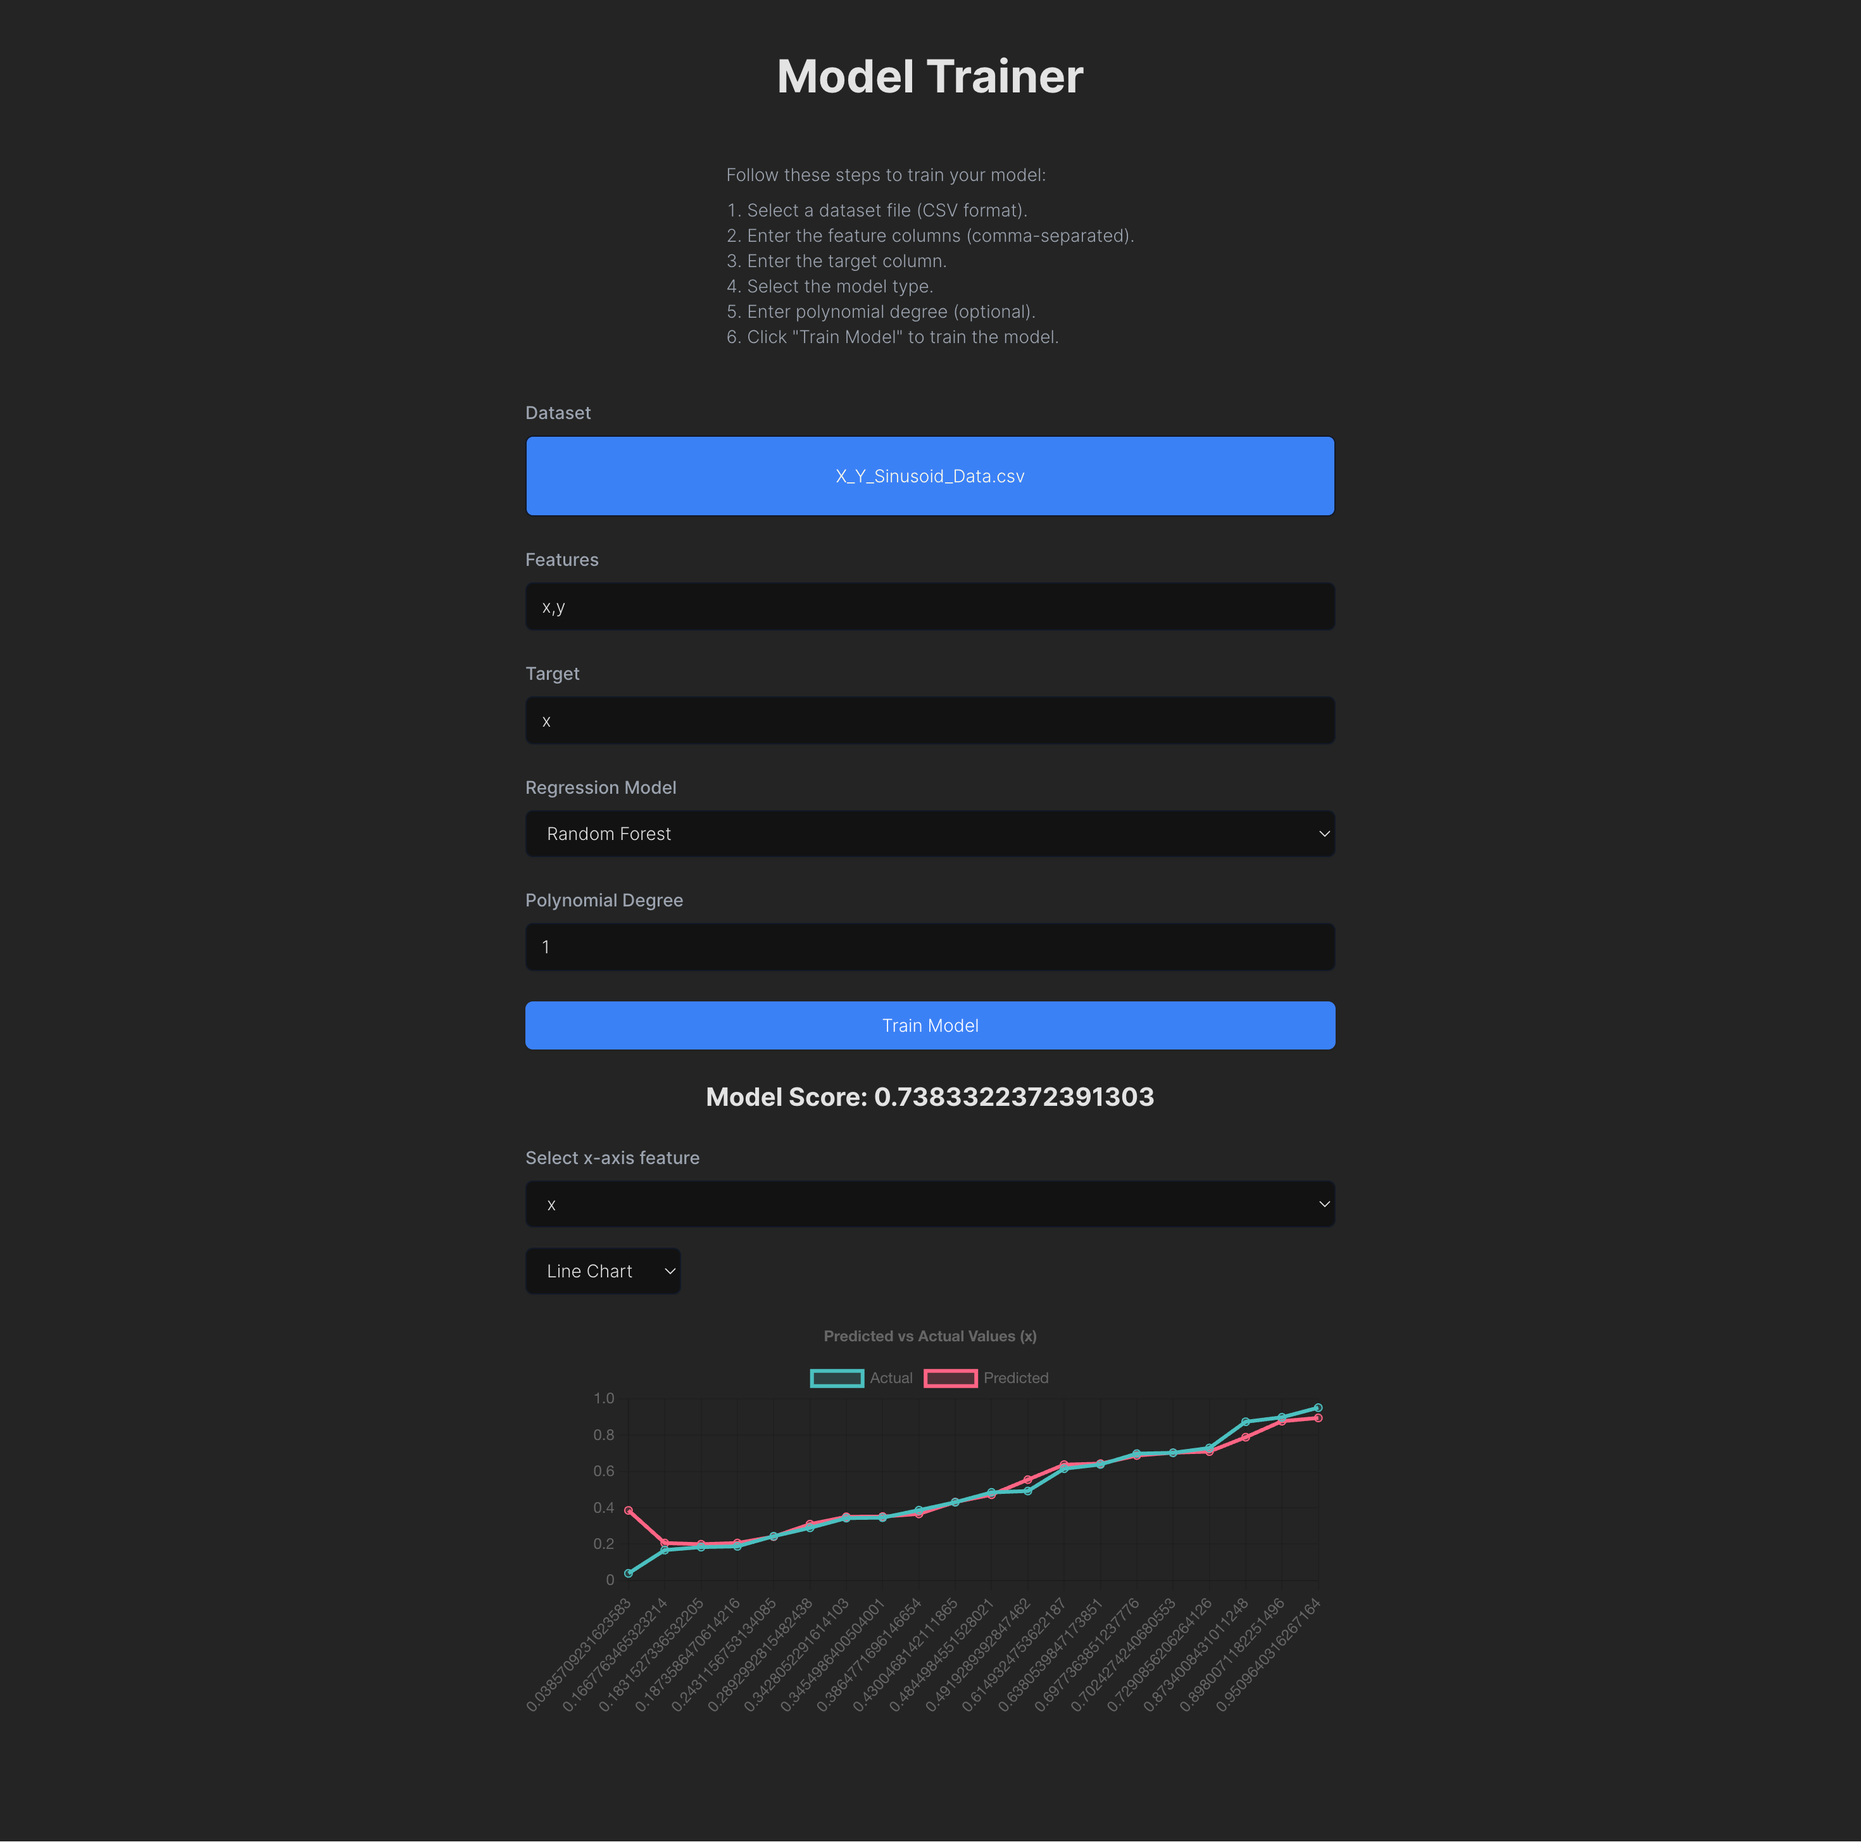
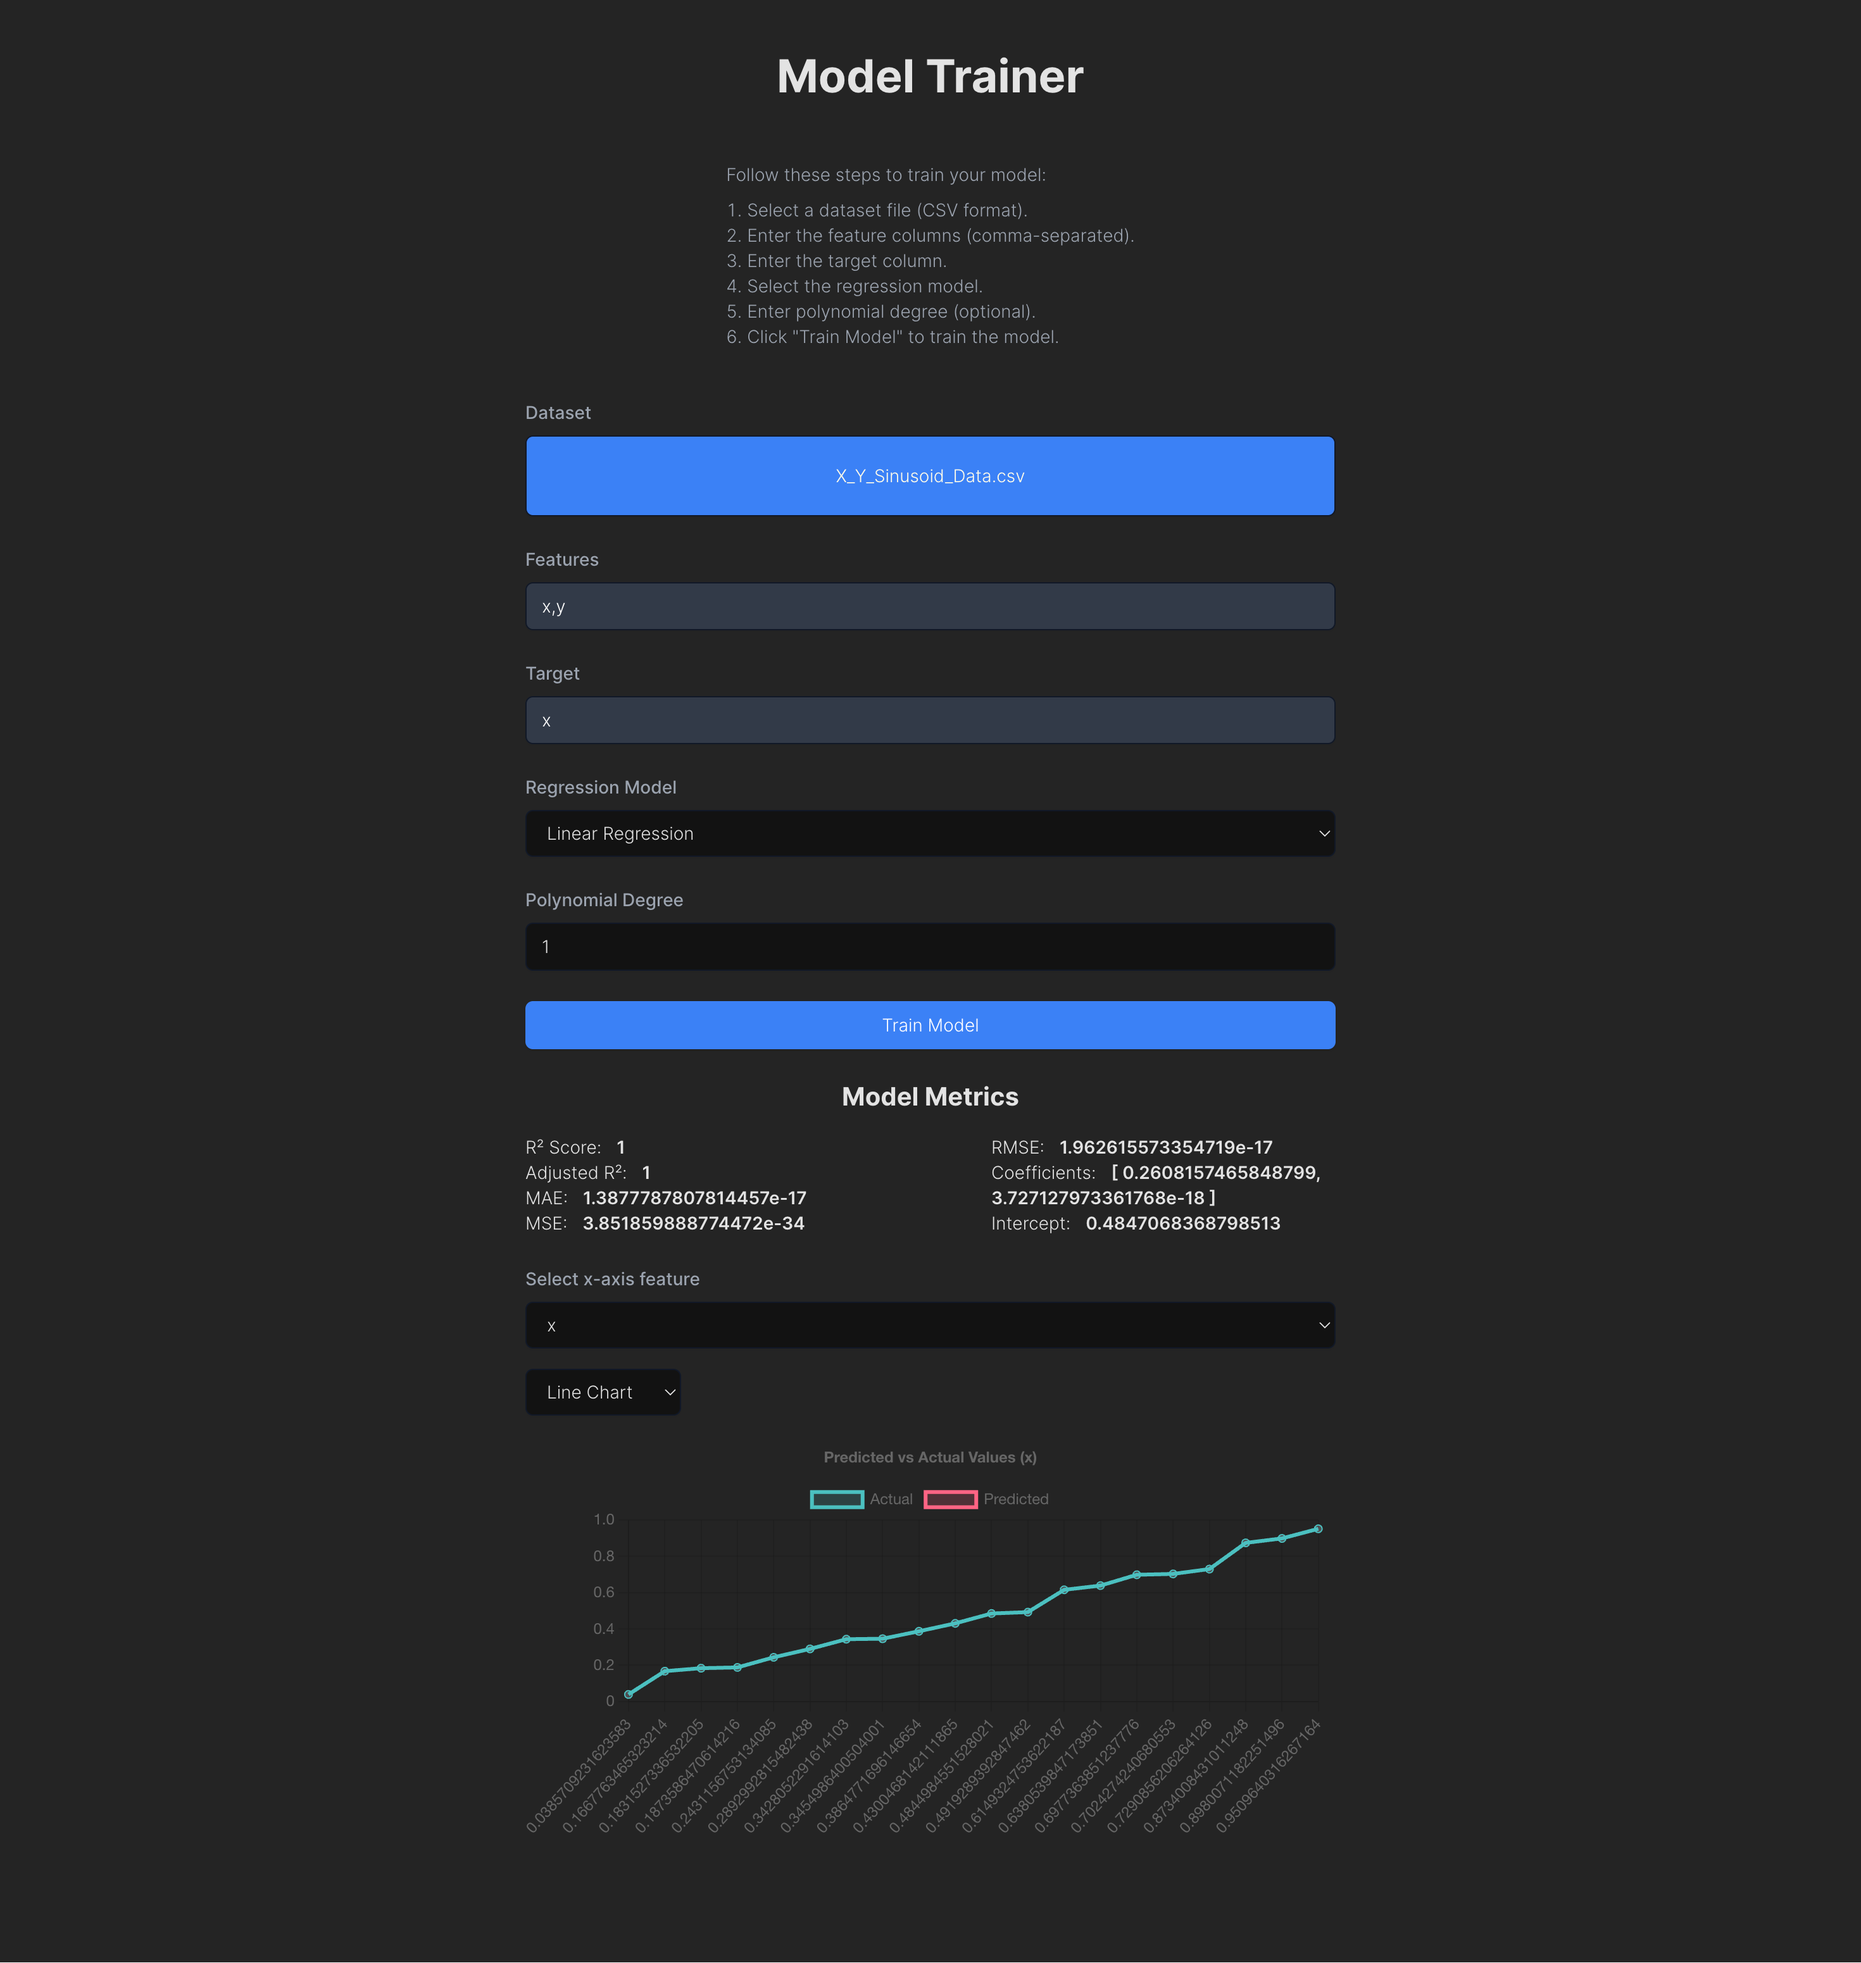
Flexible regression

diff --git a/client/src/views/Home.vue b/client/src/views/Home.vue
@@ -9,7 +9,7 @@
             <li>Select a dataset file (CSV format).</li>
             <li>Enter the feature columns (comma-separated).</li>
             <li>Enter the target column.</li>
-            <li>Select the model type.</li>
+            <li>Select the regression model.</li>
             <li>Enter polynomial degree (optional).</li>
             <li>Click "Train Model" to train the model.</li>
           </ol>
@@ -74,13 +74,26 @@
       </button>
     </form>
     <div v-if="error" class="mt-4 text-red-600 text-center">{{ error }}</div>
-    <div v-if="score !== null" class="mt-6 text-center">
-      <h2 class="text-xl font-bold">Model Score: {{ score }}</h2>
+    <div v-if="score !== null" class="mt-6">
+      <h2 class="text-xl font-bold text-center mb-4">Model Metrics</h2>
+      <div class="flex flex-col sm:flex-row items-start justify-center text-sm">
+        <div class="w-1/2 mr-24">
+          <p class=""><span>R² Score:</span> <span class="text-md font-semibold ml-2">{{ score }}</span></p>
+          <p class=""><span>Adjusted R²:</span> <span class="text-md font-semibold ml-2">{{ adjustedR2 }}</span></p>
+          <p class=""><span>MAE:</span> <span class="text-md font-semibold ml-2">{{ mae }}</span></p>
+          <p class=""><span>MSE:</span> <span class="text-md font-semibold ml-2">{{ mse }}</span></p>
+        </div>
+        <div class="w-1/2">
+          <p class=""><span>RMSE:</span>  <span class="text-md font-semibold ml-2">{{ rmse }}</span></p>
+          <p class="" v-if="coefficients"><span>Coefficients:</span> <span class="text-md font-semibold ml-2">{{ coefficients }}</span></p>
+          <p class="" v-if="intercept !== null"><span>Intercept:</span> <span class="text-md font-semibold ml-2">{{ intercept }}</span></p>
+        </div>
+      </div>
     </div>
     <div v-if="modelData.length > 0" class="mt-6">
       <label for="xFeature" class="block text-sm font-medium text-gray-400 mb-2">Select x-axis feature</label>
       <select v-model="xFeature" id="xFeature" class="block w-full px-3 py-2 border border-gray-900 rounded-md shadow-sm focus:outline-none sm:text-sm">
-        <option v-for="feature in featureList" :key="feature" :value="feature">{{ feature }}</option>
+        <option v-for="feature in features.split(',')" :key="feature" :value="feature">{{ feature }}</option>
       </select>
       <chart-component :data="modelData" :xFeature="xFeature" class="mt-4"></chart-component>
     </div>
@@ -104,6 +117,12 @@ export default defineComponent({
     const modelType = ref("LinearRegression");
     const polyDegree = ref(1);
     const score = ref<number | null>(null);
+    const adjustedR2 = ref<number | null>(null);
+    const mae = ref<number | null>(null);
+    const mse = ref<number | null>(null);
+    const rmse = ref<number | null>(null);
+    const coefficients = ref<number[] | null>(null);
+    const intercept = ref<number | null>(null);
     const dataset = ref<File | null>(null);
     const modelData = ref<ModelData[]>([]);
     const loading = ref(false);
@@ -141,6 +160,12 @@ export default defineComponent({
             }
           );
           score.value = response.data.score;
+          adjustedR2.value = response.data.adjusted_r2;
+          mae.value = response.data.mae;
+          mse.value = response.data.mse;
+          rmse.value = response.data.rmse;
+          coefficients.value = response.data.coefficients;
+          intercept.value = response.data.intercept;
           modelData.value = response.data.data.map((row: any) => ({
             x: row[featureList.value[0]],
             y: row[target.value],
@@ -167,6 +192,12 @@ export default defineComponent({
       modelType,
       polyDegree,
       score,
+      adjustedR2,
+      mae,
+      mse,
+      rmse,
+      coefficients,
+      intercept,
       dataset,
       modelData,
       loading,
@@ -179,4 +210,3 @@ export default defineComponent({
   },
 });
 </script>
-

diff --git a/app/routes/model_routes.py b/app/routes/model_routes.py
@@ -4,6 +4,7 @@ from sklearn.linear_model import Ridge, Lasso, ElasticNet, LinearRegression
 from sklearn.preprocessing import StandardScaler, PolynomialFeatures
 from sklearn.ensemble import RandomForestRegressor, GradientBoostingRegressor
 from sklearn.model_selection import train_test_split, GridSearchCV
+from sklearn.metrics import mean_absolute_error, mean_squared_error, r2_score
 import pandas as pd
 import numpy as np
 
@@ -75,8 +76,26 @@ def train_model():
     grid_search.fit(X_train, y_train)
     best_model = grid_search.best_estimator_
 
-    score = best_model.score(X_test, y_test)
+    y_pred = best_model.predict(X_test)
+
+    # Calculate additional metrics
+    mae = mean_absolute_error(y_test, y_pred)
+    mse = mean_squared_error(y_test, y_pred)
+    rmse = np.sqrt(mse)
+    r2 = r2_score(y_test, y_pred)
+    adjusted_r2 = 1 - (1 - r2) * (len(y) - 1) / (len(y) - X.shape[1] - 1)
+
     df['predicted'] = best_model.predict(X_scaled)
     response_data = df.to_dict(orient='records')
 
-    return jsonify({'score': score, 'data': response_data, 'best_params': grid_search.best_params_})
+    return jsonify({
+        'score': r2,
+        'mae': mae,
+        'mse': mse,
+        'rmse': rmse,
+        'adjusted_r2': adjusted_r2,
+        'coefficients': best_model.coef_.tolist() if hasattr(best_model, 'coef_') else None,
+        'intercept': best_model.intercept_ if hasattr(best_model, 'intercept_') else None,
+        'data': response_data,
+        'best_params': grid_search.best_params_
+    })
